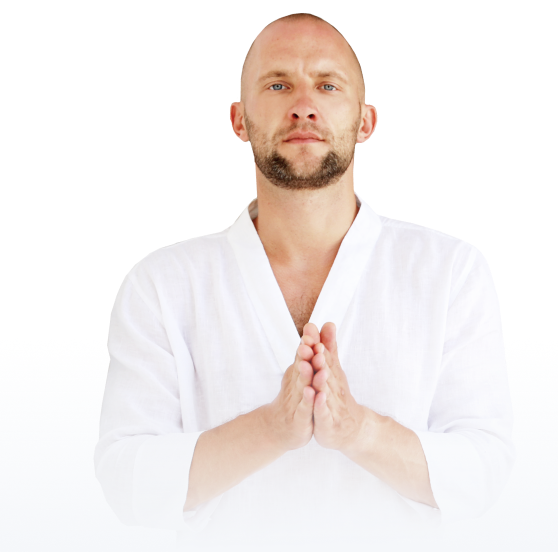
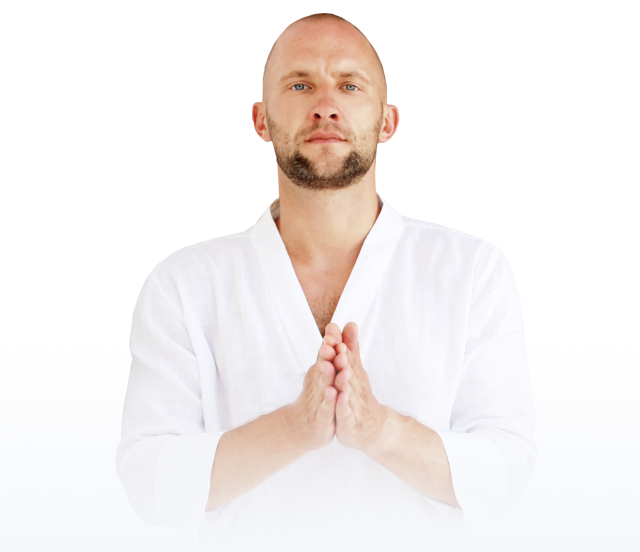
исправление сетки на первых двух экранах главной

diff --git a/pages/index.vue b/pages/index.vue
@@ -1,24 +1,29 @@
 <template lang="pug">
   .index.container
     .indexTop
-      .indexTop__inner
-        .indexTop__title
-          span Готовы <br /> понять <br />
-          | себя?
+      .indexTop__inner.gridContainer
+        .gridContainer__cell._span-6._span-md-6._offset-md-1._span-sm-4
+          .indexTop__title
+            span Готовы <br /> понять <br />
+            | себя?
         .indexTop__right
           .indexTop__imgWrap
             img.indexTop__bg(src='/img/index/index_top_bg.png')
             img.indexTop__img(src='/img/index/index_top_img.png')
 
-      .indexTop__bottom
-        button.indexTop__scroll
-          svg-icon(name="arrow")
-        .indexTop__socials
-          Socials
-    .indexDescr
-      .indexDescr__text
-        p Знаете фразу «все болезни из головы»? И&nbsp;«болезни» — это не только заболевания, а проблемы, страхи, установки. Психосоматический подход помогает по-новому взглянуть на взаимосвязь психики, тела и души. Это позволяет разглядеть истинные причины своих состояний и сделать первый шаг для их изменений.
-      .indexDescr__title Психосоматика — <br /> это&nbsp;новый подход <br /> к&nbsp;осознанности
+      .indexTop__bottom.gridContainer
+        .gridContainer__cell._span-2._offset-1._span-md-2._offset-md-1._span-sm-2._span-xs-1
+          button.indexTop__scroll
+            svg-icon(name="arrow")
+        .gridContainer__cell._span-6._offset-6._span-md-6._offset-md-6._span-sm-4._span-xs-2
+          .indexTop__socials
+            Socials
+    .indexDescr.gridContainer
+      .gridContainer__cell._span-5._offset-1._span-md-6._offset-md-1._order-md-2._span-sm-4._order-sm-2._span-xs-3
+        .indexDescr__text
+          p Знаете фразу «все болезни из головы»? И&nbsp;«болезни» — это не только заболевания, а проблемы, страхи, установки. Психосоматический подход помогает по-новому взглянуть на взаимосвязь психики, тела и души. Это позволяет разглядеть истинные причины своих состояний и сделать первый шаг для их изменений.
+      .gridContainer__cell._span-5._offset-7._span-md-6._offset-md-5._order-md-1._span-sm-4._offset-sm-2._order-sm-1._span-xs-3
+        .indexDescr__title Психосоматика — <br /> это&nbsp;новый подход <br /> к&nbsp;осознанности
     .indexVideos
       .indexVideos__item
         IndexVideoBlock(
@@ -124,7 +129,12 @@ export default {
   position relative
   padding-top 24px
   &__inner
-    display flex
+    position relative
+    margin-bottom 138px
+    @media $md_minus
+      margin-bottom 176px
+    @media $sm_minus
+      margin-bottom 246px
   &__title
     font-size 112px
     text-transform uppercase
@@ -133,14 +143,10 @@ export default {
     letter-spacing 0.03em
     color $acsent
     z-index 7
-    width 50%
+    position relative
     @media $md_minus
-      margin-left 80px
-      width calc(100% / 1.5)
-    @media $sm_minus
       font-size 80px
       line-height 96px
-      margin-left 0
     @media $xs
       font-size 40px
       line-height 48px
@@ -151,29 +157,27 @@ export default {
       @media $xs
         -webkit-text-stroke-width 1px
   &__right
-    position static
-    width 50%
+    position absolute
+    right 0
+    top 0
+    width 640px
+    height  552px
     @media $md_minus
-      margin-left -16%
+      width 456px
+      height  456px
     @media $sm_minus
-      top 60px
-      right 85px
-      position relative
+      top 40px
+      width 480px
+      height  480px
+      right -60px
     @media $xs
-      right 120px
+      width 304px
+      height  304px
+      right -69px
+      top 56px
   &__imgWrap
     position relative
-    width 562px
-    height 552px
-    margin-right 44px
-    @media $md_minus
-      width 464px
-      height 456px
-      margin-right 0
-    @media $xs
-      width 321px
-      height 316px
-      right -16px
+    right 0
   &__bg
     position absolute
     top 0
@@ -193,22 +197,7 @@ export default {
   &__img
     position relative
     z-index 8
-    width 558px
-    height 552px
-    @media $md_minus
-      width 460px
-      height 456px
-    @media $sm_minus
-      width 494px
-      height 488px
-    @media $xs
-      width 321px
-      height 316px
   &__bottom
-    width 100%
-    display flex
-    align-items center
-    justify-content space-between
     @media $md_minus
       margin-top 48px
     @media $sm_minus
@@ -224,10 +213,6 @@ export default {
     align-items center
     justify-content center
     flex-shrink 0
-    @media $md_minus
-      margin-left 80px
-    @media $sm_minus
-      margin-left 0
     @media $xs
       width 64px
       height 64px
@@ -243,56 +228,47 @@ export default {
     position relative
     z-index 2
     display flex
-    width 50%
-    flex-shrink 0
+    margin-top 30px
     @media $md_minus
-      //width auto
-    @media $sm_minus
-      width calc(100% / 1.5)
-      margin-left 112px
+      margin-top auto
     @media $xs
-      margin-top 20px
-      margin-left 38px
+      margin-top 32px
 .indexDescr
-  display flex
-  margin-top 131px
+  //display flex
+  margin-top 88px
   @media $md_minus
     flex-direction column
+    margin-top 64px
+  @media $sm_minus
+    margin-top 18px
+  @media $xs
+    margin-top 64px
   &__text
-    width 50%
-    max-width 528px
-    margin-left 112px
     @media $md_minus
-      margin-left 80px
       order 2
-      max-width 452px
-    @media $sm_minus
-      margin-left 0
-      width 100%
-      max-width 452px
-    @media $xs
-      width 100%
-      max-width 100%
   &__title
-    width 50%
-    margin-left 135px
     font-weight 400
     font-size 48px
     line-height 72px
     letter-spacing 0.02em
     @media $md_minus
-      order 1
-      margin 0 59px 96px auto
+      margin-bottom 72px
     @media $sm_minus
-      margin 0 0 128px auto
       font-size 40px
       line-height 60px
-      width auto
+      margin-bottom 96px
     @media $xs
-      margin 0 0 47px 0
       font-size 24px
       line-height 40px
+      margin-bottom 7px
 .indexVideos
+  margin-top 42px
+  @media $md_minus
+    margin-top 57px
+  @media $sm_minus
+    margin-top 104px
+  @media $xs
+    margin-top 64px
   &__item
     margin-bottom 128px
     @media $xs

diff --git a/components/Header.vue b/components/Header.vue
@@ -38,9 +38,11 @@ export default {
     line-height 24px
     font-size 24px
     position relative
+    top -12px
     @media $md_minus
       line-height 16px
       font-size 16px
+      top -8px
     & span
       display block
       &:last-child
